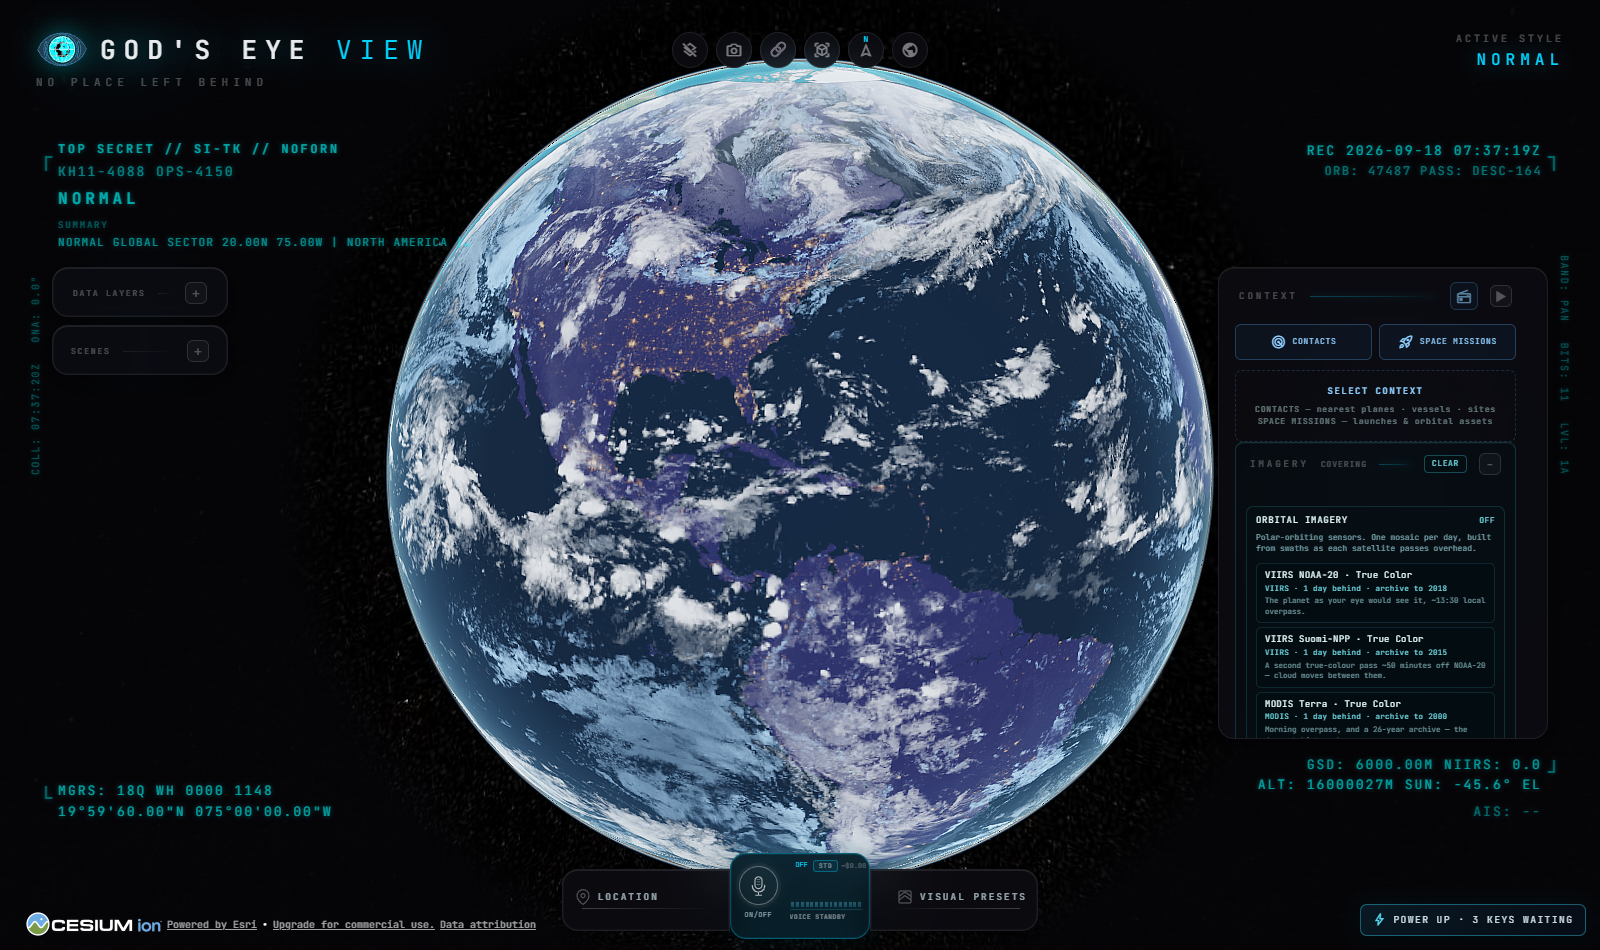
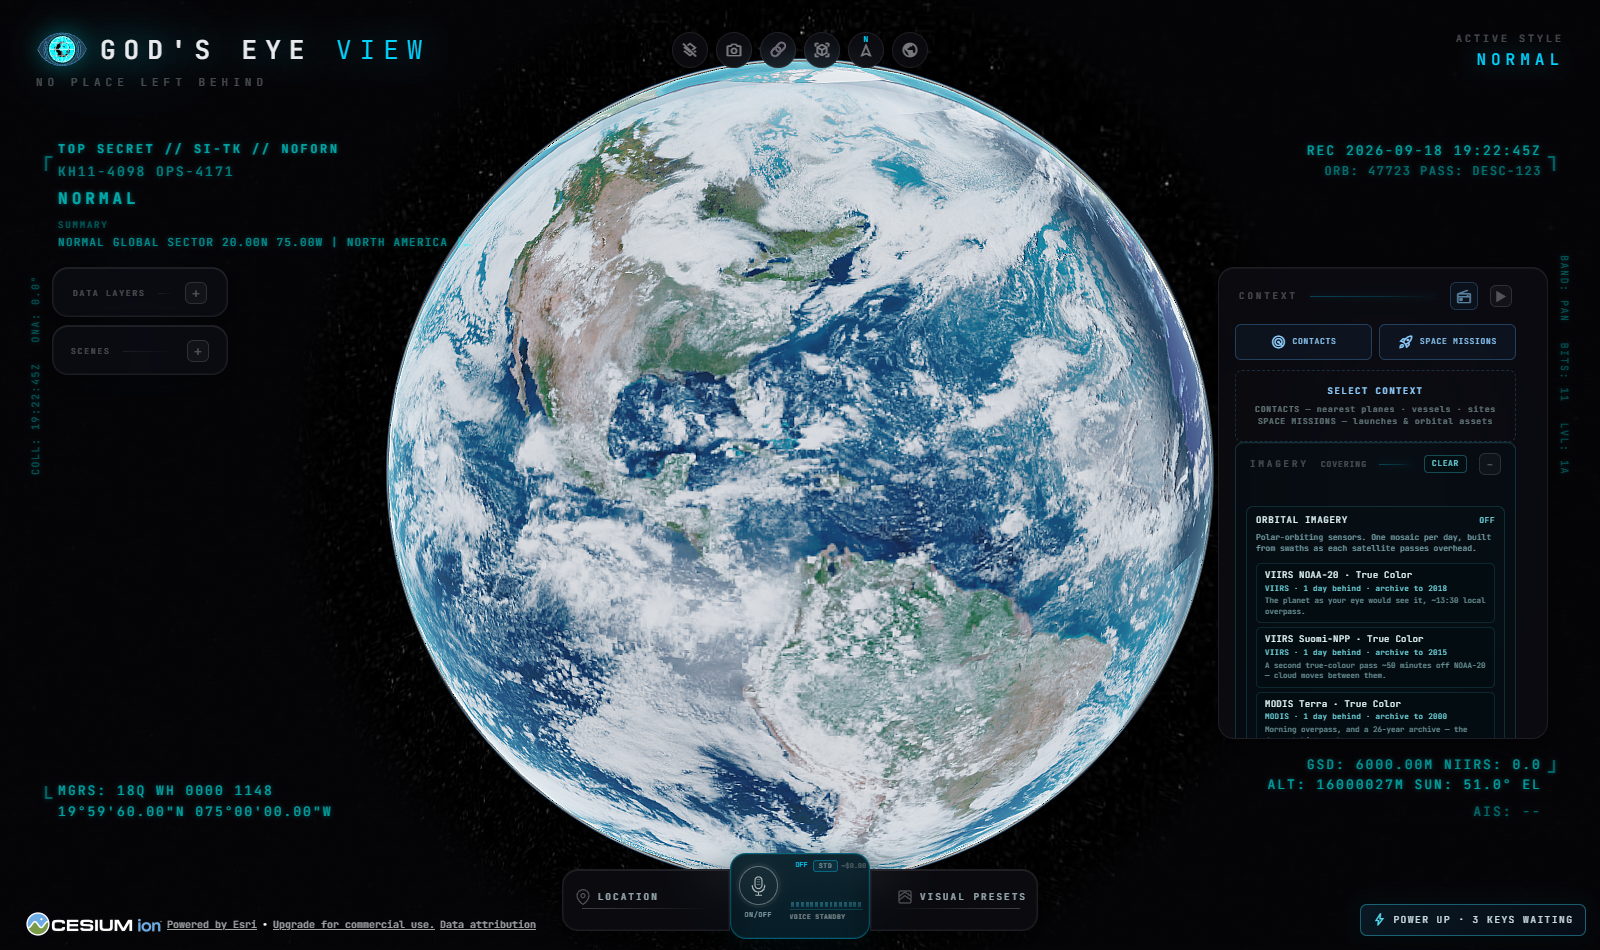
Bring the README up to date with the imagery and tropical work
The README still described the first wave: 24 sensors, no Meteosat, no radar,
no Sentinel, no hurricanes. It now describes what is actually there.

Forty-one imagery products across four slots, from NASA, NOAA, EUMETSAT and
optionally Copernicus - including the completed geostationary ring, Sentinel-1
radar that sees through cloud, and eight Sentinel-2 products at 10 m behind a
free key. Tropical cyclones with cone and track, and the outlook alongside them.

Adds Copernicus to the provider-key table, stating plainly that it buys
resolution on a spot rather than coverage, since every other imagery sensor is
keyless - and naming the third value, the OGC instance id, which is the part
that is easy to miss and without which credentials have nothing to point at.

Both screenshots recaptured against the current build.

diff --git a/README.md b/README.md
@@ -10,7 +10,7 @@ Photorealistic 3D globe. Live aircraft, ships, satellites, earthquakes, traffic,
 
 _No place left behind._
 
-🛠 **This fork adds** live police / fire / EMS scanners · web SDR receivers · ATC frequencies · NWS weather alerts · SPC storm reports · USGS volcano alerts · 24 switchable NASA satellite sensors · region monitors · contact watchlists · sanctioned-and-dark ship detection · an imagery timeline · snapshot export — **[see what's new →](#-what-this-fork-adds)**
+🛠 **This fork adds** live police / fire / EMS scanners · web SDR receivers · ATC frequencies · NWS weather alerts · SPC storm reports · USGS volcano alerts · 41 switchable satellite sensors · tropical cyclone tracking · region monitors · contact watchlists · sanctioned-and-dark ship detection · an imagery timeline · snapshot export — **[see what's new →](#-what-this-fork-adds)**
 
 ![Orbital HUD, a tracked live globe, FLIR terrain — then OPEN SOURCED](docs/media/hero-open-source-reveal.gif)
 
@@ -61,7 +61,8 @@ This is [**jmtibbetts/gods-eye-view**](https://github.com/jmtibbetts/gods-eye-vi
 | 🌩 **Weather Alerts** | Active NWS watches and warnings as severity-coloured polygons, clickable for headline, instructions and expiry |
 | 🌪 **Storm Reports** | Preliminary NOAA SPC tornado, damaging-wind and hail reports over a rolling two days, hail sized in inches and wind in knots |
 | 🌋 **Volcano Alerts** | Every US-monitored volcano above background, with the aviation colour code and the ground alert level shown side by side, because they move independently |
-| 🛰 **IMAGERY — 24 sensors** | Switch the globe between 24 NASA GIBS products grouped by what they reveal: true colour from four platforms, false colour for fire and for snow-vs-cloud, the day/night band, GOES-East and GOES-West, Himawari over the Pacific, clean infrared, dust, fire temperature, air mass, plus sea-surface temperature, aerosol, snow cover and sea ice. Each one states its own publication lag |
+| 🛰 **IMAGERY — 41 sensors** | Switch the globe between 41 products from NASA, NOAA, EUMETSAT and Copernicus, grouped by what they reveal. True colour from four platforms at four overpass times; false colour for fire and for snow-against-cloud; the day/night band; Sentinel-1 radar that sees through cloud. The complete geostationary ring — GOES-East and West, Himawari, Meteosat, and multimission composites of the whole belt. Measured science on a colour ramp: sea-surface temperature, aerosol, snow, sea ice, flood extent. Each one states its own publication lag, and `npm run check:imagery` re-probes them all so a retired product fails loudly instead of serving a silent black tile |
+| 🌀 **Tropical Cyclones** | Active storms from the National Hurricane Center with forecast cone, track and past track — plus the disturbances NHC is watching, each with its two-day and seven-day formation odds, so the layer says something useful in the two-thirds of the year with no named storm |
 | 🌀 **Weather Radar** | NEXRAD and global RainViewer precipitation mosaics, stackable under the flights diverting around them |
 
 **Make sense of it**
@@ -111,7 +112,8 @@ Start with the included data sources, then add your own. Each layer is a separat
 - **🎖 Military HUD:** Tactical heads-up display with intelligence-style telemetry.
 - **🌐 Global Context:** Stage the full situational picture with one switch — and get your exact view back when you leave.
 - **🧩 Layer combinations:** One press stacks the layers that only make sense together — STORM + AIR puts NEXRAD radar under live flights with active warnings, so you can see what the traffic is actually diverting around. Press again to put it back.
-- **🛰 IMAGERY — 24 sensors, one globe:** The same planet through twenty-four different instruments, grouped by what each one actually reveals. True colour from four platforms at four overpass times. False colour where shortwave infrared separates burning fire from old burn scar, and ice from the cloud sitting on top of it. The day/night band, which sees last night by its own light — cities, gas flares, fishing fleets. The geostationary pair plus Himawari, so the Pacific is not a blind spot. Dust, fire temperature and air mass. And measured science on a colour ramp: sea-surface temperature, aerosol, snow cover, sea ice. Every sensor states the lag it is actually running at, because a ten-minute geostationary frame and a three-day snow-cover composite are not the same claim, and presenting them identically as "satellite imagery" would be the one lie this feature could tell.
+- **🛰 IMAGERY — 41 sensors, one globe:** The same planet through forty-one instruments, grouped by what each actually reveals. True colour from four platforms at four overpass times. False colour where shortwave infrared separates burning fire from old burn scar, and ice from the cloud sitting on top of it. The day/night band, which sees last night by its own light — cities, gas flares, fishing fleets. Sentinel-1 radar, which makes its own illumination and so sees ground through cloud and at night. The complete geostationary ring, with no blind side: both GOES, Himawari, Meteosat over Europe and Africa, the Indian Ocean service, and multimission composites of the entire belt in one frame. Measured science on a colour ramp: sea-surface temperature and its anomaly, aerosol, snow cover, land temperature, sea ice, flood extent. And with a free Copernicus key, Sentinel-2 at 10 m — individual buildings, field boundaries, single vessels. Every sensor states the lag it is actually running at, because a ten-minute geostationary frame and a three-day snow composite are not the same claim, and presenting them identically as "satellite imagery" would be the one lie this feature could tell.
+- **🌀 Tropical cyclones, and what might become one:** Active storms with intensity, pressure, motion and the forecast cone — and, because NHC answers "there are no tropical cyclones at this time" for most of the year, the Tropical Weather Outlook alongside them. Every storm card says what the cone actually means: the likely track of the centre, about two times in three, saying nothing about how wide the storm is or how far its hazards reach. It is the most misread object in public weather graphics.
 - **🕰 TIMELINE:** Scrub the daily satellite imagery back through a fortnight of archive, or press PLAY and watch the last two weeks run forward. It moves only the feeds that actually have an archive and names them, so it never implies it is rewinding live aircraft or radar.
 - **🚢 VESSEL WATCH:** Two reads the raw AIS feed does not give you — which ships in view are on the OFAC sanctions list, matched by MMSI and never by name, and which tracked ships have stopped transmitting. Both are stated with their limits: a listing without an MMSI cannot be matched, and a coverage gap is not proof a transponder was switched off.
 - **📌 WATCHLIST:** Pin the contacts you actually care about — an aircraft callsign or ICAO24 address, a vessel MMSI or name — and each one turns green the moment it appears on any enabled layer, wherever on Earth it is, with a toast and a FLY TO.
@@ -342,7 +344,7 @@ _Ask for radio near anywhere and the globe starts broadcasting — every station
 
 ## 🛰 What's on the Globe
 
-Twenty-three layers and map sources. **Twenty-one have a keyless path.** Some offer additional capabilities with a provider key. (🟢 no key · 🟡 free key · 🔴 metered.)
+Twenty-four layers and map sources. **Twenty-two have a keyless path.** Some offer additional capabilities with a provider key. (🟢 no key · 🟡 free key · 🔴 metered.)
 
 | Layer                       | What you get                                                                                                                                                                                                                                                                                                                                                                        | Source                                  | Auth                                                                                                |
 | --------------------------- | ----------------------------------------------------------------------------------------------------------------------------------------------------------------------------------------------------------------------------------------------------------------------------------------------------------------------------------------------------------------------------------- | --------------------------------------- | --------------------------------------------------------------------------------------------------- |
@@ -355,7 +357,8 @@ Twenty-three layers and map sources. **Twenty-one have a keyless path.** Some of
 | 🌋 **Volcano Alerts**       | Every US-monitored volcano currently above background, from the observatory that watches it — with both hazard scales side by side, because they move independently: the aviation colour code is the ash threat to aircraft, the ground alert level is the threat on the ground. Positions come from a bundled Smithsonian volcano-number lookup, since the USGS feed carries no coordinates                                              | USGS Volcano Hazards Program            | 🟢                                                                                                  |
 | 🌩 **Weather Alerts**       | Live NWS watches and warnings as severity-coloured polygons — tornado, severe thunderstorm, flash flood and the rest — each clickable for its headline, instruction text and expiry. Zone-only advisories ship no geometry in the feed, so they are counted rather than drawn and the panel says which is which                                                                    | US National Weather Service             | 🟢                                                                                                  |
 | 🌪 **Storm Reports**        | Preliminary tornado, damaging-wind and hail reports filed by NWS offices, over a rolling two-day window and colour-coded by kind — hail sized in inches, wind in knots, with the spotter's own comments. Marked preliminary on every card, because SPC revises and removes them during review                                                              | NOAA Storm Prediction Center            | 🟢                                                                                                  |
-| 🛰 **IMAGERY (24 sensors)** | Three switchable GIBS slots plus radar, stackable under everything else. ORBITAL: true colour from NOAA-20, Suomi-NPP, Terra and Aqua at four different overpass times; false colour for fire and burn scars (M11-I2-I1) and for ice against cloud (M3-I3-M11); the VIIRS day/night band; the Black Marble composite. GEOSTATIONARY: GOES-East and GOES-West GeoColor, Himawari over the Pacific, clean longwave infrared on all three, plus dust, fire temperature and air mass RGBs. MEASURED SCIENCE: sea-surface temperature and its anomaly, aerosol optical depth, snow cover, land-surface temperature, sea ice. Each product carries its verified publication lag and archive depth — Terra reaches back to February 2000 — and `npm run check:imagery` re-probes all 24 so a retired product fails loudly instead of serving a silent black tile | RainViewer + NASA GIBS | 🟢 |
+| 🛰 **IMAGERY (41 sensors)** | Four switchable slots, stackable. ORBITAL: true colour from NOAA-20, Suomi-NPP, Terra and Aqua; false colour for fire and burn scars and for ice against cloud; the VIIRS day/night band; Sentinel-1 terrain-corrected radar at zoom 12; the Black Marble composite; and with a Copernicus key, eight Sentinel-2 products at 10 m. GEOSTATIONARY — the complete ring: GOES-East and GOES-West GeoColor and clean IR, Himawari visible and IR, Meteosat Third Generation GeoColor and true colour, the Indian Ocean service, SEVIRI volcanic ash, plus dust, fire-temperature and air-mass composites and two multimission frames covering the whole belt at once. MEASURED SCIENCE: sea-surface temperature and anomaly, aerosol optical depth, snow cover, land-surface temperature, sea ice, and Sentinel-1 flood extent. Each product carries its verified publication lag and archive depth — Terra reaches back to February 2000 — and `npm run check:imagery` re-probes every one, following the sun for daylight-only bands so night is never reported as a fault | NASA GIBS + EUMETSAT + RainViewer (+ Copernicus) | 🟢 (🟡 optional for Sentinel-2) |
+| 🌀 **Tropical Cyclones** | NHC active storms — category, sustained wind in knots and mph, pressure, motion, advisory number — with forecast cone, forecast track and past track from NOAA's tropical map service. Draws the Tropical Weather Outlook too, since NHC reports no cyclones for most of the year: each watched area carries its two-day and seven-day formation odds. Every storm card states what the cone means, because it is the most misread object in public weather graphics | NOAA National Hurricane Center | 🟢 |
 | 🚗 **Traffic**              | Simulated vehicles on OSM roads. With TomTom, live flow speeds drive the simulation and congestion colors below ~8 km; individual vehicle positions are not live observations                                                                                                                                                                                                       | TomTom + OSM                            | 🟢 simulation · 🟡 live flow speeds                                                                 |
 | 📹 **CCTV Mesh**            | ~3,600 public cameras projected _into_ the 3D space — Austin · Texas (TxDOT) · California (Caltrans) · London (TfL) · Ontario (511) · Finland (Fintraffic) · British Columbia (DriveBC) · Estonia (Tallinn, Tarktee) · New South Wales (Live Traffic NSW) · Calgary. Positions are published; poses are estimated priors **you calibrate by dragging a gizmo on the camera itself** | City APIs                               | 🟢                                                                                                  |
 | 📻 **Radio**                | Geolocated world radio with an **analog tuner** — drag the needle across up to 750 stations and the globe flies to each broadcaster                                                                                                                                                                                                                                                 | Radio Browser / broadcasters            | 🟢                                                                                                  |
@@ -485,6 +488,7 @@ Six keys. Four have a free tier, and the two 🔴 ones are metered:
 | 🔴  | **OpenAI**      | 🎙 The voice experience + AI HUD summary. The mini model works; the standard model is noticeably smarter. Want Gemini or another provider behind the mic? PRs welcome                | [platform.openai.com](https://platform.openai.com) — metered, see costs below                                                                                        |
 | 🟡  | **AISStream**   | 🚢 Live global ships                                                                                                                                                                 | [aisstream.io](https://aisstream.io) — free signup                                                                                                                   |
 | 🟡  | **NASA FIRMS**  | 🔥 Live active fires                                                                                                                                                                 | [firms.modaps.eosdis.nasa.gov](https://firms.modaps.eosdis.nasa.gov/api/map_key/) — free                                                                             |
+| 🟡  | **Copernicus**  | 🛰 Sentinel-2 at 10 m — eight products, from true colour to burn severity. Every other imagery sensor is keyless, so this buys resolution on a spot rather than coverage. Needs three values: client id, client secret, and the OGC **instance id** from the dashboard's Configuration Utility, since OGC services are addressed per instance | [dataspace.copernicus.eu](https://dataspace.copernicus.eu) — free signup |
 | 🟡  | **TomTom**      | 🚦 Live flow speeds and congestion colors for the simulated traffic layer                                                                                                            | [developer.tomtom.com](https://developer.tomtom.com) — free tier available                                                                                           |
 
 ![Diving from city-scale live congestion straight into an intersection's public camera](docs/media/05-traffic-to-cctv.gif)
